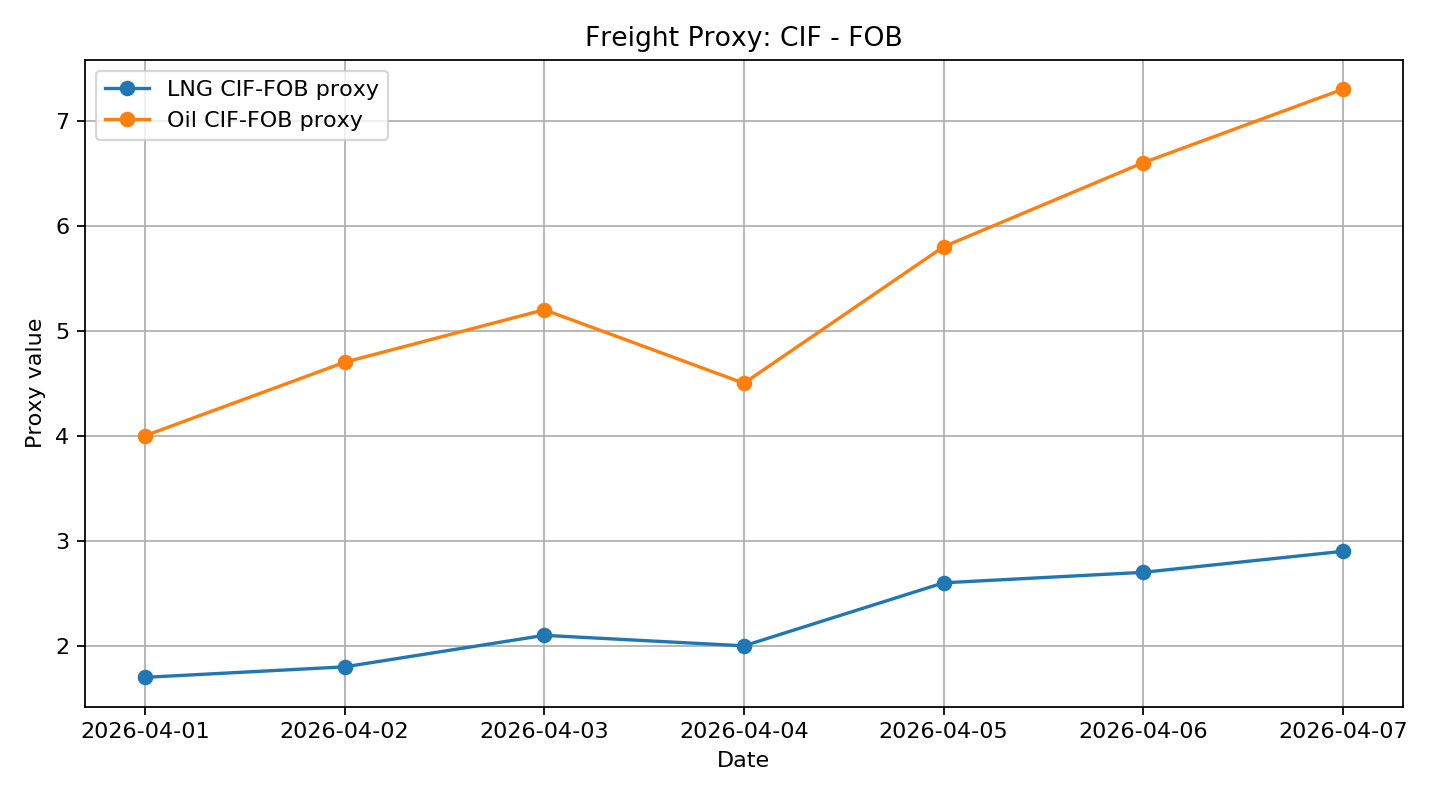
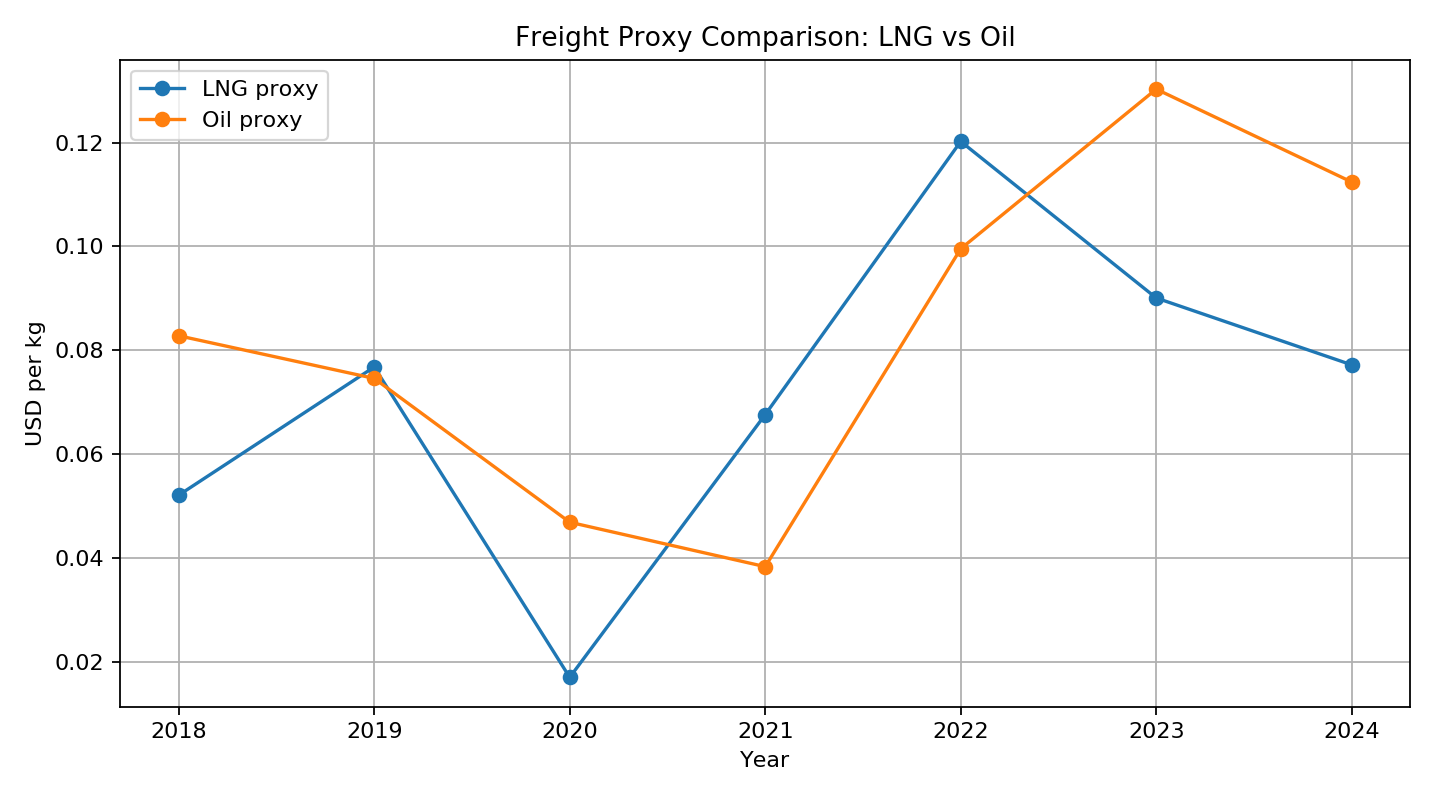
Add LNG and oil freight proxy comparison

diff --git a/app/fetch_comtrade_lng.py b/app/fetch_comtrade_lng.py
@@ -1,0 +1,110 @@
+from pathlib import Path
+import time
+import requests
+import pandas as pd
+
+BASE_DIR = Path(__file__).resolve().parent.parent
+OUT_DIR = BASE_DIR / "app" / "data"
+OUT_DIR.mkdir(parents=True, exist_ok=True)
+
+BASE_URL = "https://comtradeapi.un.org/public/v1/preview/C/A/HS"
+
+
+def fetch_comtrade(reporter_code, partner_code, cmd_code, flow_code, period):
+    params = {
+        "reporterCode": reporter_code,
+        "partnerCode": partner_code,
+        "cmdCode": cmd_code,
+        "flowCode": flow_code,
+        "period": period,
+    }
+
+    response = requests.get(BASE_URL, params=params, timeout=30)
+    response.raise_for_status()
+    return response.json().get("data", [])
+
+
+def first_record(data):
+    return data[0] if data else None
+
+
+def safe_unit(value, qty):
+    if value is None or qty in (None, 0):
+        return None
+    return value / qty
+
+
+def main():
+    years = range(2018, 2025)
+    cmd_code = "271111"  # LNG
+    rows = []
+
+    for year in years:
+        period = str(year)
+        print(f"Fetching {period}...")
+
+        japan_import = first_record(
+            fetch_comtrade(
+                reporter_code=392,
+                partner_code=0,
+                cmd_code=cmd_code,
+                flow_code="M",
+                period=period,
+            )
+        )
+
+        australia_export = first_record(
+            fetch_comtrade(
+                reporter_code=36,
+                partner_code=0,
+                cmd_code=cmd_code,
+                flow_code="X",
+                period=period,
+            )
+        )
+
+        if japan_import is None or australia_export is None:
+            print(f"  Skipped {period}: missing data")
+            continue
+
+        japan_cif_value = japan_import.get("cifvalue")
+        japan_qty = japan_import.get("qty")
+        australia_fob_value = australia_export.get("fobvalue")
+        australia_qty = australia_export.get("qty")
+
+        japan_cif_unit = safe_unit(japan_cif_value, japan_qty)
+        australia_fob_unit = safe_unit(australia_fob_value, australia_qty)
+
+        if japan_cif_unit is None or australia_fob_unit is None:
+            print(f"  Skipped {period}: missing value or quantity")
+            continue
+
+        lng_freight_proxy = japan_cif_unit - australia_fob_unit
+
+        rows.append(
+            {
+                "period": period,
+                "commodity": "LNG",
+                "cmd_code": cmd_code,
+                "japan_import_cif_value": japan_cif_value,
+                "japan_import_qty": japan_qty,
+                "japan_cif_unit_value": japan_cif_unit,
+                "australia_export_fob_value": australia_fob_value,
+                "australia_export_qty": australia_qty,
+                "australia_fob_unit_value": australia_fob_unit,
+                "lng_freight_proxy": lng_freight_proxy,
+            }
+        )
+
+        time.sleep(1)
+
+    result = pd.DataFrame(rows)
+    out_path = OUT_DIR / "lng_freight_proxy_comtrade.csv"
+    result.to_csv(out_path, index=False)
+
+    print(result)
+    print(f"Saved: {out_path}")
+
+
+if __name__ == "__main__":
+    main()

diff --git a/app/generate_signals.py b/app/generate_signals.py
@@ -5,28 +5,31 @@ from pathlib import Path
 import pandas as pd
 import matplotlib.pyplot as plt
 
-from pathlib import Path
-import pandas as pd
-import matplotlib.pyplot as plt
-
 BASE_DIR = Path(__file__).resolve().parent.parent
-DATA_PATH = BASE_DIR / "app" / "data" / "freight_proxy_sample.csv"
+DATA_DIR = BASE_DIR / "app" / "data"
 CHART_DIR = BASE_DIR / "public" / "static" / "charts"
 CHART_DIR.mkdir(parents=True, exist_ok=True)
 
-df = pd.read_csv(DATA_PATH)
-df["date"] = pd.to_datetime(df["date"])
+lng = pd.read_csv(DATA_DIR / "lng_freight_proxy_comtrade.csv")
+oil = pd.read_csv(DATA_DIR / "oil_freight_proxy.csv")
 
-# CIF - FOB = freight + insurance proxy
-df["lng_freight_proxy"] = df["lng_cif"] - df["lng_fob"]
-df["oil_freight_proxy"] = df["oil_cif"] - df["oil_fob"]
+lng["period"] = lng["period"].astype(int)
+oil["period"] = oil["period"].astype(int)
+
+df = pd.merge(
+    lng[["period", "lng_freight_proxy"]],
+    oil[["period", "oil_proxy"]],
+    on="period",
+    how="outer"
+).sort_values("period")
 
 plt.figure(figsize=(9, 5))
-plt.plot(df["date"], df["lng_freight_proxy"], marker="o", label="LNG CIF-FOB proxy")
-plt.plot(df["date"], df["oil_freight_proxy"], marker="o", label="Oil CIF-FOB proxy")
-plt.title("Freight Proxy: CIF - FOB")
-plt.xlabel("Date")
-plt.ylabel("Proxy value")
+plt.plot(df["period"], df["lng_freight_proxy"], marker="o", label="LNG proxy")
+plt.plot(df["period"], df["oil_proxy"], marker="o", label="Oil proxy")
+
+plt.title("Freight Proxy Comparison: LNG vs Oil")
+plt.xlabel("Year")
+plt.ylabel("USD per kg")
 plt.legend()
 plt.grid(True)
 plt.tight_layout()
@@ -35,8 +38,7 @@ output_path = CHART_DIR / "freight_proxy.png"
 plt.savefig(output_path, dpi=160)
 plt.close()
 
-# Save processed data as CSV
-processed_path = BASE_DIR / "public" / "static" / "charts" / "freight_proxy_processed.csv"
-df.to_csv(processed_path, index=False)
+df.to_csv(CHART_DIR / "freight_proxy_comparison.csv", index=False)
 
+print(df)
 print(f"Generated: {output_path}")

diff --git a/app/fetch_comtrade_oil.py b/app/fetch_comtrade_oil.py
@@ -1,0 +1,56 @@
+from pathlib import Path
+import time
+import requests
+import pandas as pd
+
+BASE_DIR = Path(__file__).resolve().parent.parent
+OUT_DIR = BASE_DIR / "app" / "data"
+OUT_DIR.mkdir(parents=True, exist_ok=True)
+
+BASE_URL = "https://comtradeapi.un.org/public/v1/preview/C/A/HS"
+
+
+def fetch(reporter, partner, cmd, flow, period):
+    params = {
+        "reporterCode": reporter,
+        "partnerCode": partner,
+        "cmdCode": cmd,
+        "flowCode": flow,
+        "period": period,
+    }
+    r = requests.get(BASE_URL, params=params)
+    r.raise_for_status()
+    data = r.json().get("data", [])
+    return data[0] if data else None
+
+
+def unit(v, q):
+    if v is None or q in (None, 0):
+        return None
+    return v / q
+
+
+rows = []
+for year in range(2018, 2025):
+    print(f"Fetching {year}...")
+    
+    jp = fetch(392, 0, "2709", "M", str(year))
+    au = fetch(36, 0, "2709", "X", str(year))
+
+    if not jp or not au:
+        continue
+
+    cif = unit(jp.get("cifvalue"), jp.get("qty"))
+    fob = unit(au.get("fobvalue"), au.get("qty"))
+
+    if cif and fob:
+        rows.append({
+            "period": year,
+            "oil_proxy": cif - fob
+        })
+
+    time.sleep(1)
+
+df = pd.DataFrame(rows)
+df.to_csv(OUT_DIR / "oil_freight_proxy.csv", index=False)
+print(df)
